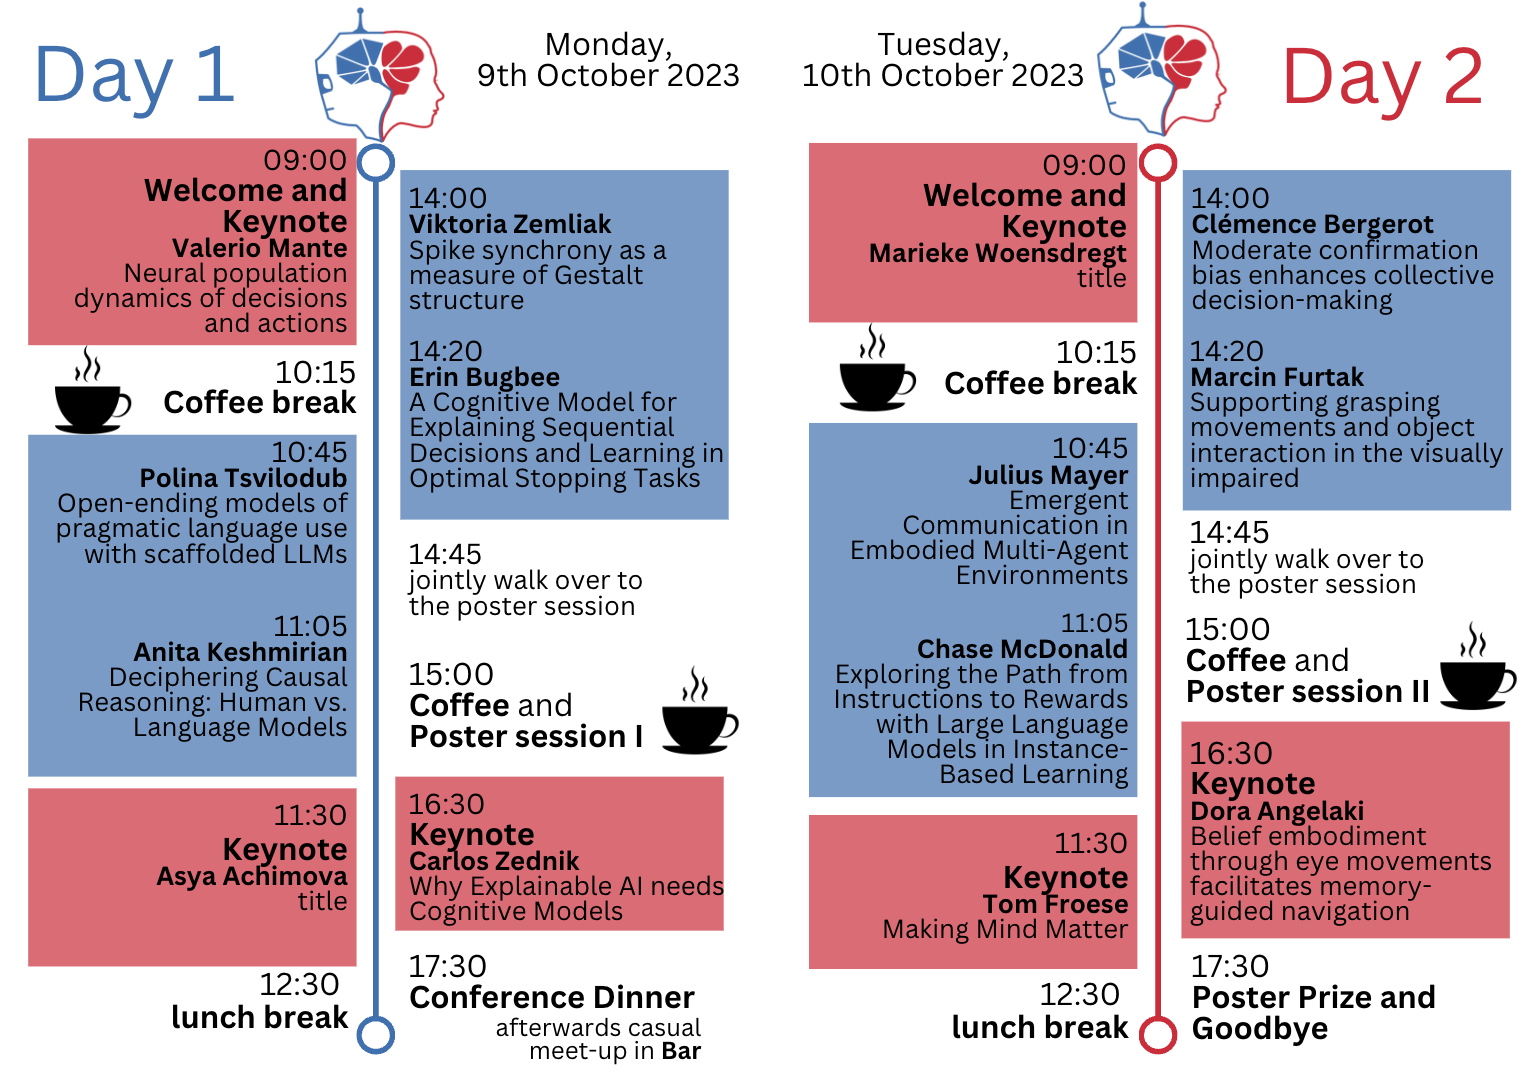
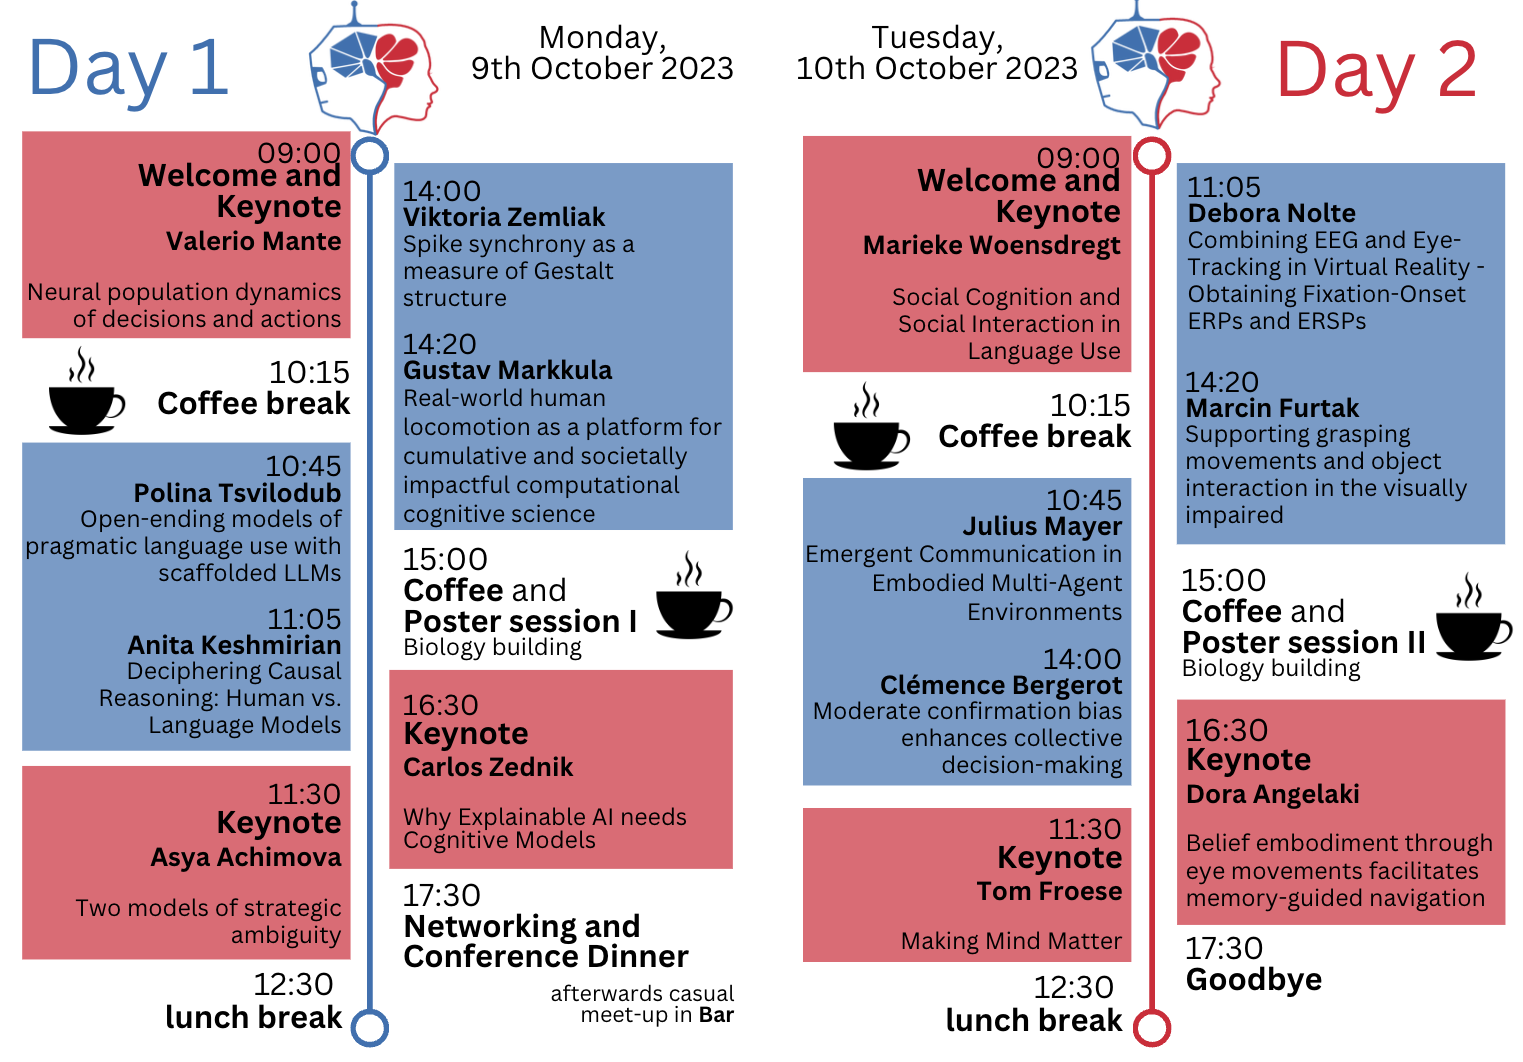
pics

Changed region(s): [[0.0, 0.0, 0.4938, 0.9944], [0.5246, 0.0, 1.0, 0.9944], [0.8332, 0.0311, 0.9875, 0.1243]]

diff --git a/program.html b/program.html
@@ -11,111 +11,6 @@ permalink: /program
 
 </style>
 
-<!-- CONFERENCE PROGRAM START -->
-<div class="row">
-  <div class="col-lg-7 col-md-7 col-sm-7 m-auto">
-      <h6 class="program-text">Tentative schedule for ComCo 2023</h6>
-      <!-- Your program table here -->
-      <table class="program-grid">
-          <thead>
-              <tr>
-                  <th>Time</th>
-                  <th>Day 1</th>
-                  <th>Day 2</th>
-              </tr>
-          </thead>
-          <tbody>
-              <tr>
-                  <td>8:15</td>
-                  <td>Registration</td>
-                  <td rowspan="2"></td>
-              </tr>
-              <tr>
-                  <td>9:00</td>
-                  <td>Welcome</td>
-              </tr>
-              <tr>
-                  <td>9:15</td>
-                  <td>Keynote talk I<br>
-                    Valerio Mante: Neural population dynamics of decisions and actions</td>
-                  <td>Keynote talk IV <br>
-                    Marieke Woensdregt</td>
-              </tr>
-              <tr>
-                <td>10:15</td>
-                <td>Coffe break</td>
-                <td>Coffee break</td>
-              </tr>
-              <tr>
-                <td>10:45</td>
-                <td>Contributed talk I
-                </td>
-                <td>Contributed talk V</td>
-              </tr>
-              <tr>
-                <td>11:05</td>
-                <td>Contributed talk II</td>
-                <td>Contributed talk VI</td>
-              </tr>
-              <tr>
-                <td>11:30</td>
-                <td>Keynote talk II <br>
-                  Asya Achimova</td>
-                <td>Keynote talk V <br>
-                  Tom Froese: Making Mind Matter</td>
-              </tr>
-              <tr>
-                <td>12:30</td>
-                <td>Lunch break</td>
-                <td>Lunch break</td>
-              </tr>
-              <tr>
-                <td>14:00</td>
-                <td>Contributed talk III</td>
-                <td>Contributed talk VII</td>
-              </tr>
-              <tr>
-                <td>14:20</td>
-                <td>Contributed talk IV</td>
-                <td>Contributed talk VIII</td>
-              </tr>
-              <tr>
-                <td>14:45</td>
-                <td> Walk to poster session venue</td>
-                <td> Walk to poster session venue</td>
-              </tr>
-              <tr>
-                <td>15:00</td>
-                <td>Poster session</td>
-                <td>Poster session</td>
-              </tr>
-              <tr>
-                <td>16:15</td>
-                <td>Walk back to conference venue</td>
-                <td>Walk back to conference venue</td>
-              </tr>
-              <tr>
-                <td>16:30</td>
-                <td>Keynote talk III <br>
-                  Carlos Zednik: Why Explainable AI needs Cognitive Models</td>
-                <td>Keynote talk VI <br>
-                Dora Angelaki: Belief embodiment through eye movements facilitates memory-guided navigation</td>
-              </tr>
-              <tr>
-                <td>17:30</td>
-                <td>Scientific networking and conference dinner</td>
-                <td>Closing session, poster prize and goodbye</td>
-              </tr>
-              <tr>
-                <td>19:30</td>
-                <td>Local pub meet-up</td>
-                <td rowspan="2"></td>
-              </tr>
-          </tbody>
-      </table>
-  </div>
-  <div class="col-lg-5 col-md-5 col-sm-5" style="margin-top: 30px;">
-      <img src="assets/img/about/about-11.jpg" alt="Program Image" class="program-image" style="max-width: 100%; height: auto;">
-  </div>
+<div class="col-lg-8 col-md-8 col-sm-8" style="margin-top: 30px;">
+  <img src="assets/img/about/about-22.jpg" alt="Program Image" class="program-image" style="max-width: 100%; height: auto;">
 </div>
-<!-- CONFERENCE PROGRAM END -->

diff --git a/_includes/footer.html b/_includes/footer.html
@@ -16,6 +16,9 @@
 					<a href="https://www.psiori.com/" target="_blank">
 						<img src="/assets/img/about/about-4.jpg" alt="Sponsor Logo" width="150">
 					 </a>
+					 <a href="https://www.rosen-group.com/global/company/explore/we-can/technologies.html" target="_blank">
+						<img src="/assets/img/about/about-23.jpg" alt="Sponsor Logo" width="150">
+					</a>
 				</div>
 			</div>
 
